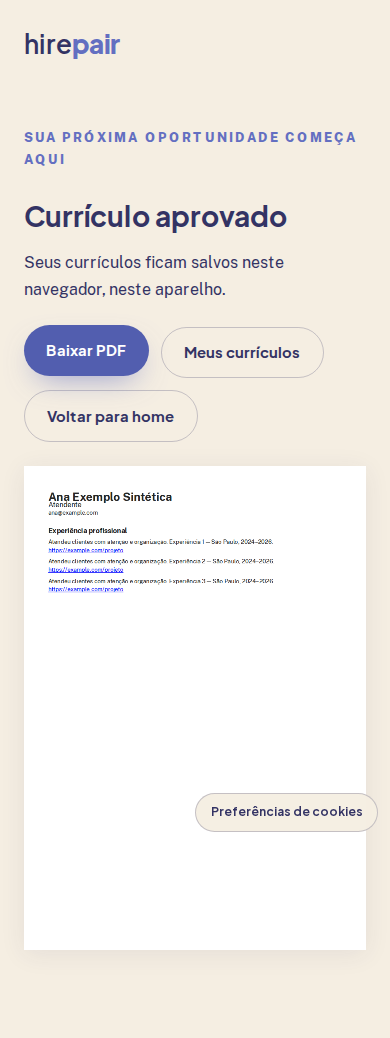
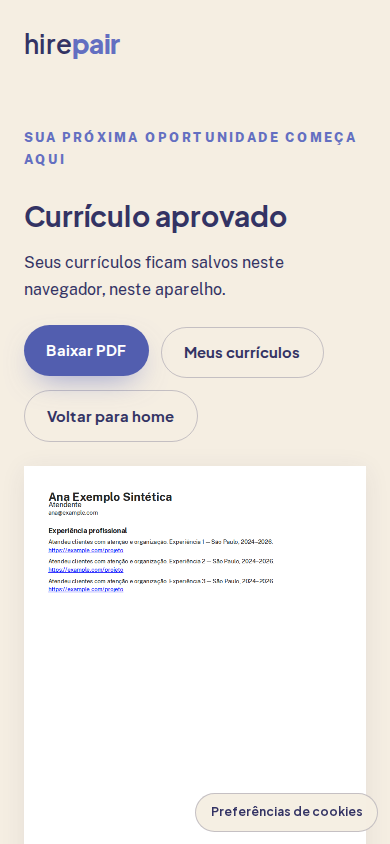
test(20): corrigir capturas do currículo aprovado

diff --git a/apps/web/e2e/resume-export.spec.ts b/apps/web/e2e/resume-export.spec.ts
@@ -171,7 +171,7 @@ test('aprova, baixa o PDF exato e reabre pela biblioteca', async ({ page }) => {
   await expect(page.getByRole('article', { name: 'Versão textual do currículo' })).toHaveClass(
     'sr-only',
   );
-  await page.screenshot({ path: `${evidence}/approved-desktop.png`, fullPage: true });
+  await page.screenshot({ path: `${evidence}/approved-desktop.png`, fullPage: false });
   await page.getByRole('link', { name: 'Voltar para home' }).click();
   await expect(page).toHaveURL('/');
   await page.screenshot({ path: `${evidence}/home-desktop.png`, fullPage: false });
@@ -194,7 +194,7 @@ test('aprova, baixa o PDF exato e reabre pela biblioteca', async ({ page }) => {
       .digest('hex'),
   ).toBe(downloadedHash);
   await expect(page.locator('.pdf-pages canvas[data-rendered=true]')).toHaveCount(1);
-  await page.screenshot({ path: `${evidence}/approved-mobile.png`, fullPage: true });
+  await page.screenshot({ path: `${evidence}/approved-mobile.png`, fullPage: false });
 });
 test('estado vazio, retomada e descarte confirmado', async ({ page, context }) => {
   await page.goto('/meus-curriculos');
